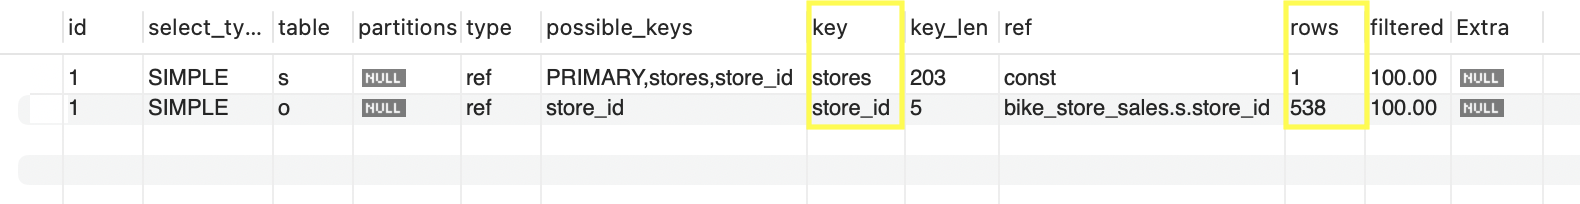
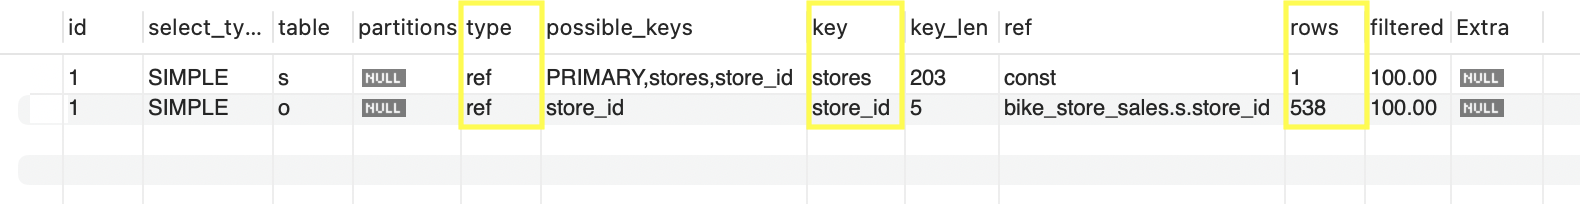
Finish first draft of MySQL chapter

Changed region(s): [[0.2791, 0.0, 0.3722, 0.6471]]

diff --git a/blog1.html b/blog1.html
@@ -39,7 +39,7 @@
                 </div>
                 <div class="title-flexbox">
                     <div class="title-flexbox-left">
-                        <p style="margin-bottom:0px;font-size:smaller;">Nikko Siegfried · Jan, 14 2025</p>
+                        <p style="margin-bottom:0px;font-size:smaller;">Nikko Siegfried · Feb, 10 2025</p>
                     </div>
                     <div class="title-flexbox-right">
                         <ul class="title-icons" style="margin-bottom:0px;">
@@ -76,7 +76,7 @@
                     </span>
                     <hr style="border-color:rgba(0, 0, 0, 0.85); width:100%; border-top: 1px solid; margin:0.5rem 0;"/>
                     <span class="nav-item">
-                        <a class="nav-link" href="#section6">Summary</a>
+                        <a class="nav-link" href="#section6">Conclusion</a>
                     </span>
                 </div>
                 <div class="article-writing">
@@ -603,7 +603,7 @@
                     </p>
                     <p style="text-align:center;"><img style="width:75% !important;" id="inline_image" src="assets/img/Bike_Shop_Database_Schema.jpg"></p>
                     <h5>Query Optimization</h5>
-                    <p>Let's start trying to query order data from a specific store:</p>
+                    <p>Let's start with a basic query trying to retrieve order data from a specific store:</p>
                     <div class="coded">
                         <p id="coded"><span id="coded-colored">SELECT</span> *</p>
                         <p id="coded"><span id="coded-colored">FROM</span> bike_store_sales.stores s</p>
@@ -613,7 +613,7 @@
                     </div>
                     <p>
                         <span>
-                            Using <code>EXPLAIN</code> we can get information of the query execution:
+                            Using <code>EXPLAIN</code>, we can get information of the query execution:
                         </span>
                     </p>
                     <p style="text-align:center;"><img id="inline_image" src="assets/img/blog1image1.png"></p>
@@ -629,20 +629,31 @@
                     </div>
                     <p>
                         <span>
-                            Rerunning the query, we can see the newly indexed rows in the query under the <code>key</code> column. Under the <code>rows</code> column we can see the number of rows being queried has been reduced significantly compared the non-indexed query:
+                            Rerunning <code>EXPLAIN</code> on the query, there are a few changes to note. Firstly, We can see the newly indexed rows in the query under the <code>key</code> column. The join type (under the <code>type</code> column) has also changed from "ALL" to "ref". This means the join went from fully scanning the whole table to only searching rows with matching index values - a much more efficient approach.
+                            Under the <code>rows</code> column we can see the number of rows being queried has been reduced significantly compared the non-indexed query:
                         </span>
                     </p>
                     <p style="text-align:center;"><img id="inline_image" src="assets/img/blog1image2.png"></p>
-
-                    <h3 id="section6">Summary</h3>
                     <p>
                         <span>
-                            Knowing your personnel allows you to take a more active role in reading the room. No environment is perfect, but you can use what you’ve learned to create opportunities for improvement in areas that team leads may not be aware of or may not have the capacity to handle.
+                            Now that the tables are indexed, it is important to optimize the <code>JOIN</code> and <code>SELECT</code> portions of the query.
+                            We want to return rows that have matching values in both tables. This is already done with <code>JOIN</code>, but could be clearer syntactically using <code>INNER JOIN</code> (which does the same thing).
+                            The query currently returns all columns in both the stores and orders table - this returns unneeded information including many id columns. To clean up the query selection, we will also use <code>SELECT</code> only on the columns we need:
                         </span>
                     </p>
+                    <div class="coded">
+                        <p id="coded"><span id="coded-colored">SELECT</span> <mark>store_name, phone, email, street, city, order_status, order_date, shipped_date</mark></p>
+                        <p id="coded"><span id="coded-colored">FROM</span> bike_store_sales.stores s</p>
+                        <p id="coded"><span id="coded-colored"><mark>INNER</mark> JOIN</span> bike_store_sales.orders o</p>
+                        <p id="coded"><span id="coded-colored">ON</span> o.store_id = s.store_id</p>
+                        <p id="coded"><span id="coded-colored">WHERE</span> store_name = 'Santa Cruz Bikes';</p>
+                    </div>
+                    <h3 id="section6">Conclusion</h3>
                     <p>
                         <span>
-                            Knowing your personnel allows you to take a more active role in reading the room. No environment is perfect, but you can use what you’ve learned to create opportunities for improvement in areas that team leads may not be aware of or may not have the capacity to handle.
+                            MySQL is a powerful database management tool with high performance, scalability, data security, and an abundance of documentation and support.
+                            Learning MySQL can be a challenge, but being able to optimize performance is essential in getting the most out of the program.
+                            Hands-on experience, tutorials, and familiarizing yourself with the documentation is the best way to learn MySQL and fast-track yourself towards fluency.
                         </span>
                     </p>
                 </div>
